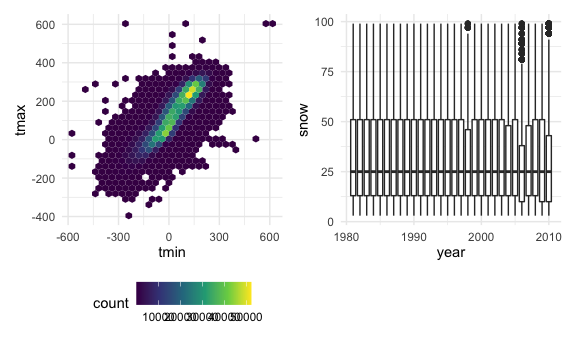
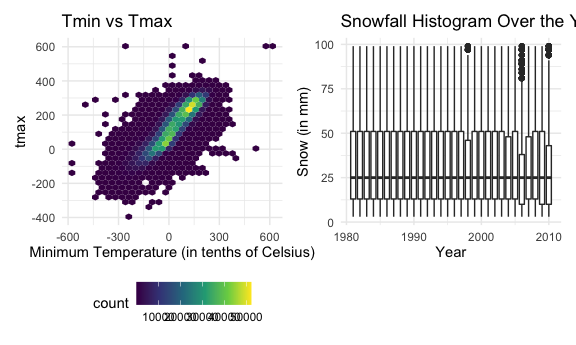
last edits

diff --git a/asn2139_hw3_p8105.md b/asn2139_hw3_p8105.md
@@ -210,7 +210,7 @@ plot_accel_df=
 accel_df %>% 
       mutate(day=forcats::fct_relevel(day,c("Sunday", "Monday", "Tuesday", "Wednesday", "Thursday", "Friday", "Saturday"))) %>% 
       ggplot(aes(x=minute, y=activity_count,color=day))+
-      geom_line()
+      geom_line()+ labs(title="24-Hour Activity Time Course", y="Activity count", x="Minute of Day")
 
 ggsave("plot_accel_df.pdf", plot_accel_df, width=10, height=5)
 ```
@@ -272,7 +272,8 @@ library(ggplot2)
   geom_point() +
 geom_path() +
 facet_grid(~ month)+
-theme(legend.position = "none")
+theme(legend.position = "none")+ labs(title="Comparing Maximum Temperatures in January vs July",
+                                      y="Average Maximum Temperature (in tenths of Celsius)")
 ```
 
     ## `summarise()` regrouping output by 'id', 'year' (override with `.groups` argument)
@@ -301,7 +302,9 @@ library(tidyverse)
 tmax_tmin_p=
   ny_noaa_df %>% 
   ggplot(aes(x=tmin, y=tmax))+
-  geom_hex()
+  geom_hex()+ labs(title="Tmin vs Tmax", 
+                   x="Minimum Temperature (in tenths of Celsius)",
+                   x="Minimum Temperature (in tenths of Celsius)")
   
 
 snowfall_p=
@@ -310,7 +313,9 @@ snowfall_p=
   separate(date, c("year", "month", "day"), sep="-",convert=TRUE) %>% 
   filter(snow %in% c(1:100)) %>% 
   ggplot(aes(x=year, y=snow,group=year))+
-  geom_boxplot()
+  geom_boxplot()+ labs(title="Snowfall Histogram Over the Years", 
+                       x="Year",
+                       y="Snow (in mm)")
 
 tmax_tmin_p+snowfall_p
 ```
